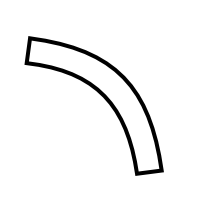
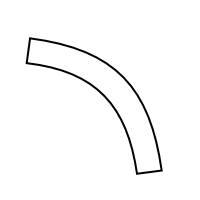
Reduce line width, start testing Qt display

Changed region(s): [[0.12, 0.18, 0.84, 0.9]]

diff --git a/animation/animate.py b/animation/animate.py
@@ -1,0 +1,39 @@
+#!/usr/bin/env python
+
+import sys
+
+from PyQt4 import QtGui
+from PyQt4.QtCore import Qt
+
+def main():
+    app = QtGui.QApplication(sys.argv)
+
+    # Load images
+    bg_pixmap = QtGui.QPixmap("background.png")
+    segments = [QtGui.QPixmap("segment{}.png".format(i)) for i in range (0,5)]
+
+    # Place in scene
+    scene = QtGui.QGraphicsScene()
+    scene.addPixmap(bg_pixmap)
+    for segment in segments:
+        scene.addPixmap(segment)
+
+    # Create and show scene window
+    view = QtGui.QGraphicsView(scene)
+    view.setStyleSheet("background-color: transparent;")
+    view.setFixedSize(200, 200)
+    view.setHorizontalScrollBarPolicy(Qt.ScrollBarAlwaysOff)
+    view.setVerticalScrollBarPolicy(Qt.ScrollBarAlwaysOff)
+    view.setWindowTitle("Animation")
+    view.setWindowFlags(Qt.FramelessWindowHint | Qt.WindowStaysOnTopHint)
+    view.setAttribute(Qt.WA_TranslucentBackground)
+    view.setFrameStyle(QtGui.QFrame.NoFrame)
+    view.show()
+
+    # Quit on key press
+    view.keyPressEvent = lambda event: view.close()
+
+    sys.exit(app.exec_())
+
+if __name__ == '__main__':
+    main()
